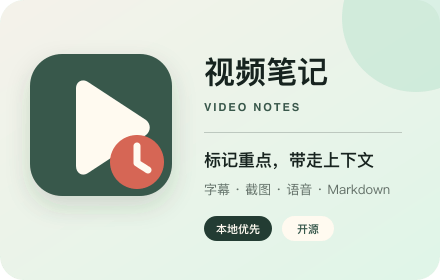
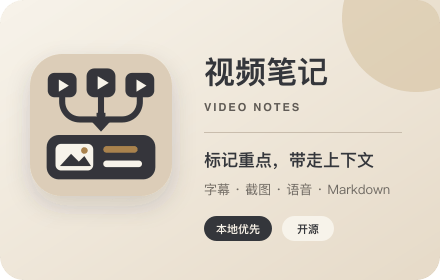
更新: 统一视频笔记品牌图标

diff --git a/docs/en/index.html b/docs/en/index.html
@@ -37,7 +37,7 @@
           <p class="lead">Video Notes keeps transcript reading, on-device browser translation, timestamped notes, screenshots, and voice beside your YouTube or Bilibili lesson. Capture an idea in place, then export Markdown when you are ready to organize it.</p>
           <div class="hero-actions">
             <a class="button button-primary" href="https://microsoftedge.microsoft.com/addons/detail/cndejflmchbjejlflldlmfplcadnpjkj">Install for Edge</a>
-            <a class="button button-secondary" href="https://github.com/IronUnicorn66/video-notes/releases/download/v1.0.36/video-notes-edge-1.0.36.zip">Download 1.0.36 ZIP</a>
+            <a class="button button-secondary" href="https://github.com/IronUnicorn66/video-notes/releases/download/v1.0.37/video-notes-edge-1.0.37.zip">Download 1.0.37 ZIP</a>
           </div>
           <div class="trust-row" aria-label="Product principles">
             <span>YouTube and Bilibili</span>
@@ -109,10 +109,10 @@
           <div class="install-copy">
             <p class="section-label">Install</p>
             <h3>Install from Microsoft Edge or load it manually in Edge / Chrome</h3>
-            <p>The extension is already public in Microsoft Edge Add-ons. Version 1.0.36 is being prepared for review and will update automatically after approval. To use it in Chrome or try it sooner, download the matching GitHub Release package.</p>
+            <p>The extension is already public in Microsoft Edge Add-ons. Version 1.0.37 is being prepared for review and will update automatically after approval. To use it in Chrome or try it sooner, download the matching GitHub Release package.</p>
             <div class="install-actions">
               <a class="button button-primary" href="https://microsoftedge.microsoft.com/addons/detail/cndejflmchbjejlflldlmfplcadnpjkj">Open Edge Add-ons</a>
-              <a class="button button-secondary" href="https://github.com/IronUnicorn66/video-notes/releases/download/v1.0.36/video-notes-edge-1.0.36.zip">Download 1.0.36 ZIP</a>
+              <a class="button button-secondary" href="https://github.com/IronUnicorn66/video-notes/releases/download/v1.0.37/video-notes-edge-1.0.37.zip">Download 1.0.37 ZIP</a>
             </div>
           </div>
           <ol class="install-steps">

diff --git a/docs/index.html b/docs/index.html
@@ -37,7 +37,7 @@
           <p class="lead">视频笔记把 YouTube 和哔哩哔哩课程的字幕阅读、浏览器本地翻译、时点笔记、截图与语音放到视频旁。看到重点当场记，看完导出 Markdown 继续整理。</p>
           <div class="hero-actions">
             <a class="button button-primary" href="https://microsoftedge.microsoft.com/addons/detail/cndejflmchbjejlflldlmfplcadnpjkj">从 Edge 商店安装</a>
-            <a class="button button-secondary" href="https://github.com/IronUnicorn66/video-notes/releases/download/v1.0.36/video-notes-edge-1.0.36.zip">下载 1.0.36 ZIP</a>
+            <a class="button button-secondary" href="https://github.com/IronUnicorn66/video-notes/releases/download/v1.0.37/video-notes-edge-1.0.37.zip">下载 1.0.37 ZIP</a>
           </div>
           <div class="trust-row" aria-label="产品特点">
             <span>YouTube 与哔哩哔哩</span>
@@ -109,10 +109,10 @@
           <div class="install-copy">
             <p class="section-label">安装</p>
             <h3>从 Edge 商店安装，或手动加载到 Edge / Chrome</h3>
-            <p>Edge 商店已公开上架；1.0.36 更新正在准备审核，通过后会自动更新。需要在 Chrome 使用或提前试用时，可下载同一份 GitHub Release 发布包。</p>
+            <p>Edge 商店已公开上架；1.0.37 更新正在准备审核，通过后会自动更新。需要在 Chrome 使用或提前试用时，可下载同一份 GitHub Release 发布包。</p>
             <div class="install-actions">
               <a class="button button-primary" href="https://microsoftedge.microsoft.com/addons/detail/cndejflmchbjejlflldlmfplcadnpjkj">打开 Edge 商店</a>
-              <a class="button button-secondary" href="https://github.com/IronUnicorn66/video-notes/releases/download/v1.0.36/video-notes-edge-1.0.36.zip">下载 1.0.36 ZIP</a>
+              <a class="button button-secondary" href="https://github.com/IronUnicorn66/video-notes/releases/download/v1.0.37/video-notes-edge-1.0.37.zip">下载 1.0.37 ZIP</a>
             </div>
           </div>
           <ol class="install-steps">

diff --git a/tests/store-assets.test.js b/tests/store-assets.test.js
@@ -16,6 +16,13 @@ const expectedPngs = new Map([
   ['screenshot-3-export.png', [1280, 800]],
 ]);
 
+const expectedExtensionIcons = new Map([
+  ['icon-16.png', [16, 16]],
+  ['icon-32.png', [32, 32]],
+  ['icon-48.png', [48, 48]],
+  ['icon-128.png', [128, 128]],
+]);
+
 function readPngSize(buffer) {
   assert.deepEqual(
     [...buffer.subarray(0, 8)],
@@ -32,11 +39,36 @@ test('Edge 商店 PNG 素材尺寸完整', async () => {
   }
 });
 
+test('扩展图标尺寸完整且官网复用同一矢量源', async () => {
+  for (const [filename, expectedSize] of expectedExtensionIcons) {
+    const file = await readFile(path.join(repoRoot, 'assets', filename));
+    assert.deepEqual(readPngSize(file), expectedSize, filename);
+  }
+
+  const extensionIcon = await readFile(path.join(repoRoot, 'assets', 'icon.svg'), 'utf8');
+  const siteIcon = await readFile(path.join(repoRoot, 'docs', 'assets', 'icon.svg'), 'utf8');
+  assert.equal(siteIcon, extensionIcon);
+  assert.match(extensionIcon, /#dccdb8/);
+  assert.match(extensionIcon, /#34363b/);
+  assert.match(extensionIcon, /#a9824d/);
+  assert.doesNotMatch(extensionIcon, /#0b284a|#38584b|#d66655/i);
+});
+
 test('Edge 商店 SVG 源文件可复现且不嵌入外部资源', async () => {
   for (const filename of [...expectedPngs.keys()].map((name) => name.replace('.png', '.svg'))) {
     const svg = await readFile(path.join(assetRoot, filename), 'utf8');
     assert.match(svg, /^<svg[^>]+xmlns="http:\/\/www\.w3\.org\/2000\/svg"/);
     assert.doesNotMatch(svg, /<(?:image|script)\b/i);
     assert.doesNotMatch(svg.replace('http://www.w3.org/2000/svg', ''), /https?:\/\//i);
+  }
+});
+
+test('商店品牌素材使用新版视频帧汇聚标识', async () => {
+  for (const filename of ['logo-300.svg', 'promo-440x280.svg']) {
+    const svg = await readFile(path.join(assetRoot, filename), 'utf8');
+    assert.match(svg, /#dccdb8/);
+    assert.match(svg, /#34363b/);
+    assert.match(svg, /#a9824d/);
+    assert.doesNotMatch(svg, /#0b284a|#38584b|#d66655/i);
   }
 });

diff --git a/tests/release-package.test.js b/tests/release-package.test.js
@@ -9,7 +9,7 @@ import { fileURLToPath } from 'node:url';
 
 const execute = promisify(execFile);
 const repoRoot = path.resolve(path.dirname(fileURLToPath(import.meta.url)), '..');
-const artifactName = 'video-notes-edge-1.0.36.zip';
+const artifactName = 'video-notes-edge-1.0.37.zip';
 const artifactPath = path.join(repoRoot, 'artifacts', artifactName);
 
 function readStoredZipEntries(archive) {
@@ -69,13 +69,13 @@ test('发布包包含 Edge 运行文件和本地化资源', async () => {
   assert.ok(files.every((name) => !name.startsWith('node_modules/')));
 
   const packagedManifest = JSON.parse(entries.get('manifest.json').toString('utf8'));
-  assert.equal(packagedManifest.version, '1.0.36');
+  assert.equal(packagedManifest.version, '1.0.37');
   assert.ok(!('key' in packagedManifest), 'Edge 商店包不得包含开发环境 key');
 });
 
 test('发布包生成可核验的 SHA-256 文件', async () => {
   const checksum = await readFile(`${artifactPath}.sha256`, 'utf8');
-  assert.match(checksum, /^[a-f0-9]{64}  video-notes-edge-1\.0\.36\.zip\n$/);
+  assert.match(checksum, /^[a-f0-9]{64}  video-notes-edge-1\.0\.37\.zip\n$/);
   const expected = checksum.slice(0, 64);
   const actual = createHash('sha256').update(await readFile(artifactPath)).digest('hex');
   assert.equal(actual, expected);

diff --git a/tests/site.test.js b/tests/site.test.js
@@ -27,7 +27,7 @@ test("双语主页按首屏、用法和当前功能组织核心信息", async ()
     assert.match(html, /microsoftedge\.microsoft\.com\/addons\/detail\/cndejflmchbjejlflldlmfplcadnpjkj/);
     assert.match(
       html,
-      /releases\/download\/v1\.0\.36\/video-notes-edge-1\.0\.36\.zip/,
+      /releases\/download\/v1\.0\.37\/video-notes-edge-1\.0\.37\.zip/,
     );
     assert.match(html, /YouTube/);
     assert.match(html, /Bilibili|哔哩哔哩/);

diff --git a/tests/manifest.test.js b/tests/manifest.test.js
@@ -39,7 +39,7 @@ const enMessages = JSON.parse(
 );
 
 test("发布版本在 Manifest、包元数据和锁文件中保持一致", () => {
-  assert.equal(manifest.version, "1.0.36");
+  assert.equal(manifest.version, "1.0.37");
   assert.equal(packageJson.version, manifest.version);
   assert.equal(packageLock.version, manifest.version);
   assert.equal(packageLock.packages[""].version, manifest.version);

diff --git a/docs/ACCEPTANCE.md b/docs/ACCEPTANCE.md
@@ -1,13 +1,14 @@
-# Edge 150/152 与 Chrome 138+ 实机验收清单（1.0.36）
+# Edge 150/152 与 Chrome 138+ 实机验收清单（1.0.37）
 
 此清单区分可自动执行的发布校验和需要在桌面 Edge、Chrome 中完成的人工验收。人工项目由用户实际操作并记录结果，未执行前保持“待用户手动验收”。
 
 ## 一、发布自动校验
 
-- [x] 已自动验证：`npm test` 通过（393 个测试），`npm run build` 与 `npm run package` 全部通过。
-- [x] 已自动验证：`manifest.json`、`package.json`、`package-lock.json`、`dist/manifest.json` 和发布 ZIP 版本均为 `1.0.36`。
-- [x] 已自动验证：`unzip -t artifacts/video-notes-edge-1.0.36.zip` 与 SHA-256 校验通过；根目录包含 `manifest.json`、`sidepanel.html` 和 `offscreen.html`。
-- [ ] 待用户手动验收：中英文官网包含 1.0.36 ZIP 入口和独立窗口说明，页面无横向溢出。
+- [x] 已自动验证：`npm test` 通过（395 个测试），`npm run build` 与 `npm run package` 全部通过。
+- [x] 已自动验证：`manifest.json`、`package.json`、`package-lock.json`、`dist/manifest.json` 和发布 ZIP 版本均为 `1.0.37`。
+- [x] 已自动验证：`unzip -t artifacts/video-notes-edge-1.0.37.zip` 与 SHA-256 校验通过；根目录包含 `manifest.json`、`sidepanel.html` 和 `offscreen.html`。
+- [x] 已自动验证：扩展 16/32/48/128px 图标、官网 SVG、300px 商店图标和 440×280 宣传图统一使用新版视频帧汇聚标识，尺寸及矢量源一致性测试通过。
+- [ ] 待用户手动验收：中英文官网包含 1.0.37 ZIP 入口、新版 Logo 和独立窗口说明，页面无横向溢出。
 - [x] 已自动验证：独立窗口地址与视频标签绑定，首次创建使用 480 × 800，重复及并发点击复用同一窗口；后台重启后可从扩展上下文找回窗口，侧栏和独立窗口的页面请求不会串到其他标签。
 - [x] 已自动验证：当前会话本地字幕按前置时间范围选择完整段落，500 字限制从最早段落开始收缩；范围全部翻译时保存独立译文，部分译文或旧会话保持安全回退；B 站原生字幕轨回退按当前分 P 隔离，切换视频后不会串入旧请求结果。
 - [x] 已自动验证：发布 ZIP 不包含 `ggml-small-q5_1.bin` 或 `ggml-medium-q5_0.bin`。
@@ -21,8 +22,8 @@
 - [x] 已自动验证：侧栏整页位置按视频持久保存，完整字幕列表位置按视频及 5/10/20 合并档位隔离保存；字幕列表同时保存稳定阅读段与段内视口偏移，关闭重开后即使译文改变了段落高度也优先恢复同一字幕段，锚点缺失时兼容旧像素记录；刷新会等待位置缓存加载完成后再呈现和恢复字幕，侧栏隐藏、文档销毁、课程切换和字幕重绘前均会保留当前位置。
 - [x] 已自动验证：Edge 短暂复用旧侧栏文档时，只允许该侧栏接管同一窗口内的当前活动标签页；其他窗口和任意非活动标签仍会被拒绝，切换课程标签时不会因浏览器绑定更新延迟而显示“侧栏所属标签页已变化”。
 - [x] 已自动验证：时间线标题、排序、撤销/反撤销、字号、清空和导出控件使用统一外框高度及垂直居中方式；窄侧栏不再为时间线添加负边距，快速标记、时间线和设置卡片保持相同横向边界；B 站字幕采集同时兼容新版 `.bili-subtitle-x-subtitle-panel-text`、旧版播放器节点和原生字幕轨回退。
-- [x] 1.0.36 自动测试覆盖视频页、侧栏和独立窗口的空格播放切换、左右方向键 5 秒跳转、文字输入隔离、长按行为、播放边界、视频会话校验，以及冲突录音快捷键迁移。
-- [x] 已自动确认：固定目录 `dist/manifest.json` 为 1.0.36；实际 Edge 与 Chrome 独立窗口烟测待用户手动验收。
+- [x] 1.0.37 自动测试覆盖视频页、侧栏和独立窗口的空格播放切换、左右方向键 5 秒跳转、文字输入隔离、长按行为、播放边界、视频会话校验，以及冲突录音快捷键迁移。
+- [x] 已自动确认：固定目录 `dist/manifest.json` 为 1.0.37；实际 Edge 与 Chrome 独立窗口烟测待用户手动验收。
 - [x] 已自动验证：完整字幕重绘会选择视口中央最接近的可见段落作为稳定阅读锚点；译文增加或显示模式变化造成段落高度改变时按锚点恢复，并兼容 75%–200% 侧栏缩放、滚动边界和锚点缺失回退。
 - [x] 已在实际 Edge 1.0.28 中验证完整字幕定位：侧栏缩放至 75%，视频停在 `56:12`，字幕列表仍位于开头时只点击一次“定位”，列表立即跳到并居中显示 `56:12–56:32` 的绿色高亮段落，无中间滚动动画；自动计算同时覆盖 100% 和 200% 缩放。
 

diff --git a/docs/STORE_LISTING.md b/docs/STORE_LISTING.md
@@ -1,9 +1,9 @@
 # 视频笔记 Edge 商店上架资料
 
 更新日期：2026-09-04
-版本：1.0.36
+版本：1.0.37
 
-本文件保存 Microsoft Partner Center 的 1.0.36 更新资料。提交前应再次核对发布 ZIP、实际权限、公开页面和产品能力。
+本文件保存 Microsoft Partner Center 的 1.0.37 更新资料。提交前应再次核对发布 ZIP、实际权限、公开页面和产品能力。
 
 ## 1. 基本信息
 
@@ -21,7 +21,7 @@
 - Edge CRX ID：`cndejflmchbjejlflldlmfplcadnpjkj`
 - 商店页面：https://microsoftedge.microsoft.com/addons/detail/cndejflmchbjejlflldlmfplcadnpjkj
 - 当前公开版本：1.0.32，2026-09-03 发布
-- 本次更新版本：1.0.36，待提交审核
+- 本次更新版本：1.0.37，待提交审核
 
 ## 2. 商店名称与说明
 
@@ -145,6 +145,7 @@ Edge 的可见页面截图接口要求 `<all_urls>` 或一次临时 `activeTab` 
 - 截图 3：`store-assets/edge/screenshot-3-export.png`，1280 × 800。
 
 图片使用产品界面示意和中性课程内容，不包含真实账号、个人笔记或第三方品牌 Logo。
+新版品牌图标使用暖米棕、石墨黑、象牙白与少量低饱和金，以三个视频片段汇聚为一张图文笔记表达产品核心流程；扩展图标、官网、商店图标与小型宣传图保持一致。
 
 ## 7. 审核步骤
 
@@ -170,11 +171,11 @@ Edge 的可见页面截图接口要求 `<all_urls>` 或一次临时 `activeTab` 
 ## 8. 发布包检查
 
 - ZIP 根目录直接包含 `manifest.json`。
-- Manifest V3 版本为 1.0.36，默认语言为 `zh_CN`。
+- Manifest V3 版本为 1.0.37，默认语言为 `zh_CN`。
 - ZIP 包含 `_locales/zh_CN/messages.json` 和 `_locales/en/messages.json`。
 - ZIP 不包含测试、开发文档、商店素材、Git 元数据或模型权重。
 - 包内没有远程 JavaScript 或动态代码加载器。
-- 全量自动化测试、构建和 ZIP 完整性校验均通过；此前已在 Edge 150 完成加载与字幕烟测、在 Edge 152 确认本地翻译语言包下载进度与播放器当前进度定位。本批次新增锁定视频标签且可复用的独立窗口，并让侧栏与独立窗口共享笔记和录音状态；其余人工路径和限制见 `docs/ACCEPTANCE.md`。
+- 全量自动化测试、构建和 ZIP 完整性校验均通过；此前已在 Edge 150 完成加载与字幕烟测、在 Edge 152 确认本地翻译语言包下载进度与播放器当前进度定位。本批次统一更新扩展、官网与商店品牌图标，独立窗口、侧栏及其他产品行为保持不变；其余人工路径和限制见 `docs/ACCEPTANCE.md`。
 - 主页、隐私政策和支持页面可公开读取并返回 HTTP 200；提交 GitHub Issue 需要登录 GitHub。
 
 ## 9. 官方参考

diff --git a/README.md b/README.md
@@ -12,10 +12,10 @@ Video Notes is an open-source extension for desktop Microsoft Edge and Google Ch
 
 ![Video Notes side panel](store-assets/edge/screenshot-1-note-en.png)
 
-## What’s new in 1.0.36
+## What’s new in 1.0.37
 
-- A new **Separate window** control opens the complete Video Notes interface in a persistent, resizable window; repeated clicks reuse that window.
-- The separate window stays bound to the video it was opened from and keeps typed and voice notes, screenshots, transcript translation, playback controls, history, settings, and export consistent with the side panel.
+- Introduces a new brand icon: three video moments automatically converge into one structured note with a screenshot and text, optimized for small browser-toolbar sizes.
+- Uses the new mark consistently across the extension toolbar, project documentation, product site, Edge store icon, and promotional artwork.
 
 ## What it does
 
@@ -38,12 +38,12 @@ Video Notes is an open-source extension for desktop Microsoft Edge and Google Ch
 
 ### Microsoft Edge Add-ons
 
-[Microsoft Edge Add-ons](https://microsoftedge.microsoft.com/addons/detail/cndejflmchbjejlflldlmfplcadnpjkj) currently serves version 1.0.32. Version 1.0.36 is being prepared for update review; until it is approved, you can install the matching GitHub Release package.
+[Microsoft Edge Add-ons](https://microsoftedge.microsoft.com/addons/detail/cndejflmchbjejlflldlmfplcadnpjkj) currently serves version 1.0.32. Version 1.0.37 is being prepared for update review; until it is approved, you can install the matching GitHub Release package.
 
 ### GitHub Release preview
 
-[Download Video Notes 1.0.36 ZIP](https://github.com/IronUnicorn66/video-notes/releases/download/v1.0.36/video-notes-edge-1.0.36.zip)
-· [SHA-256 checksum](https://github.com/IronUnicorn66/video-notes/releases/download/v1.0.36/video-notes-edge-1.0.36.zip.sha256)
+[Download Video Notes 1.0.37 ZIP](https://github.com/IronUnicorn66/video-notes/releases/download/v1.0.37/video-notes-edge-1.0.37.zip)
+· [SHA-256 checksum](https://github.com/IronUnicorn66/video-notes/releases/download/v1.0.37/video-notes-edge-1.0.37.zip.sha256)
 
 1. Download the ZIP and extract it to a permanent folder.
 2. Open `edge://extensions/` in Edge or `chrome://extensions/` in Chrome.
@@ -85,8 +85,8 @@ npm install
 npm test
 npm run build
 npm run package
-unzip -t artifacts/video-notes-edge-1.0.36.zip
-cd artifacts && shasum -a 256 -c video-notes-edge-1.0.36.zip.sha256
+unzip -t artifacts/video-notes-edge-1.0.37.zip
+cd artifacts && shasum -a 256 -c video-notes-edge-1.0.37.zip.sha256
 ```
 
 After building, load the project’s `dist` directory from `edge://extensions/` or `chrome://extensions/`.

diff --git a/README.zh-CN.md b/README.zh-CN.md
@@ -12,10 +12,10 @@
 
 ![视频笔记侧栏示意](store-assets/edge/screenshot-1-note.png)
 
-## 1.0.36 更新
+## 1.0.37 更新
 
-- 侧栏顶部新增“独立窗口”入口，可以弹出并长期保留完整的视频笔记界面；重复点击会复用同一个窗口。
-- 独立窗口锁定打开时的视频标签，文字、语音、截图、字幕翻译、播放控制、历史操作、设置和导出都与侧栏一致。
+- 启用全新品牌图标：三个视频片段自动汇聚为一张带截图和正文的结构化笔记，并针对浏览器工具栏小尺寸显示重新优化。
+- 扩展工具栏、项目文档、产品官网、Edge 商店图标和宣传图统一使用新标识。
 
 ## 核心能力
 
@@ -38,12 +38,12 @@
 
 ### Edge 商店
 
-[Microsoft Edge Add-ons](https://microsoftedge.microsoft.com/addons/detail/cndejflmchbjejlflldlmfplcadnpjkj) 当前公开版本为 1.0.32。1.0.36 正在准备更新审核；商店完成更新前，可以安装同一份 GitHub Release 发布包。
+[Microsoft Edge Add-ons](https://microsoftedge.microsoft.com/addons/detail/cndejflmchbjejlflldlmfplcadnpjkj) 当前公开版本为 1.0.32。1.0.37 正在准备更新审核；商店完成更新前，可以安装同一份 GitHub Release 发布包。
 
 ### GitHub Release 测试版
 
-[下载视频笔记 1.0.36 ZIP](https://github.com/IronUnicorn66/video-notes/releases/download/v1.0.36/video-notes-edge-1.0.36.zip)
-· [SHA-256 校验文件](https://github.com/IronUnicorn66/video-notes/releases/download/v1.0.36/video-notes-edge-1.0.36.zip.sha256)
+[下载视频笔记 1.0.37 ZIP](https://github.com/IronUnicorn66/video-notes/releases/download/v1.0.37/video-notes-edge-1.0.37.zip)
+· [SHA-256 校验文件](https://github.com/IronUnicorn66/video-notes/releases/download/v1.0.37/video-notes-edge-1.0.37.zip.sha256)
 
 1. 下载 ZIP 并解压到固定目录。
 2. 在 Edge 地址栏打开 `edge://extensions/`，或在 Chrome 打开 `chrome://extensions/`。
@@ -85,8 +85,8 @@ npm install
 npm test
 npm run build
 npm run package
-unzip -t artifacts/video-notes-edge-1.0.36.zip
-cd artifacts && shasum -a 256 -c video-notes-edge-1.0.36.zip.sha256
+unzip -t artifacts/video-notes-edge-1.0.37.zip
+cd artifacts && shasum -a 256 -c video-notes-edge-1.0.37.zip.sha256
 ```
 
 构建完成后，在 `edge://extensions/` 或 `chrome://extensions/` 中加载本项目的 `dist` 目录。
